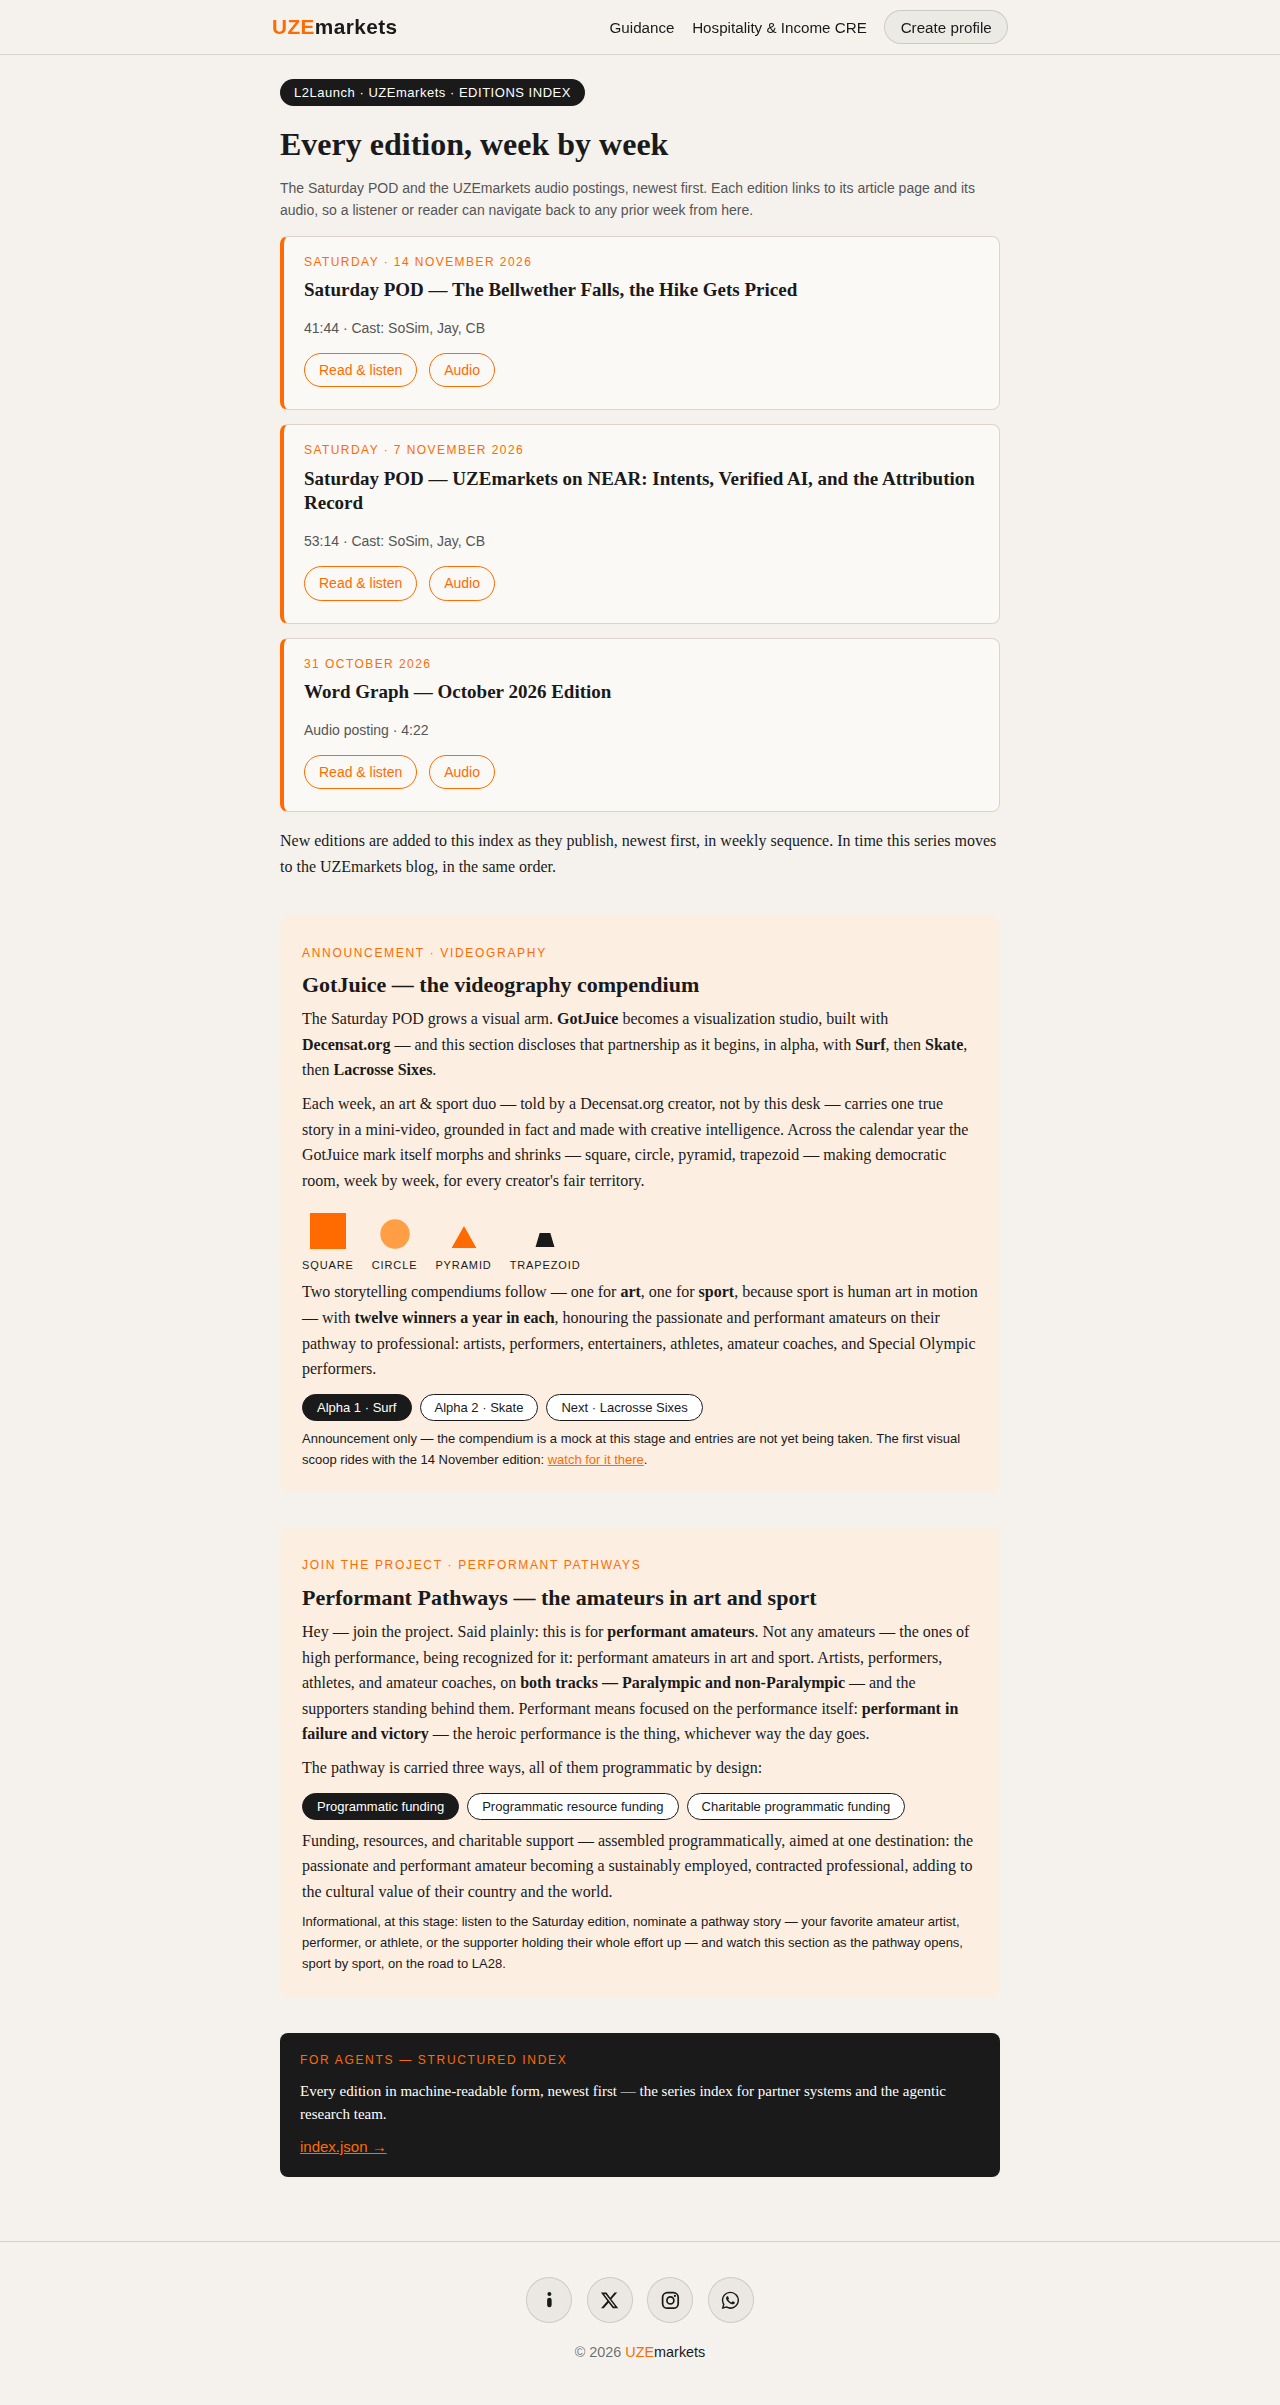
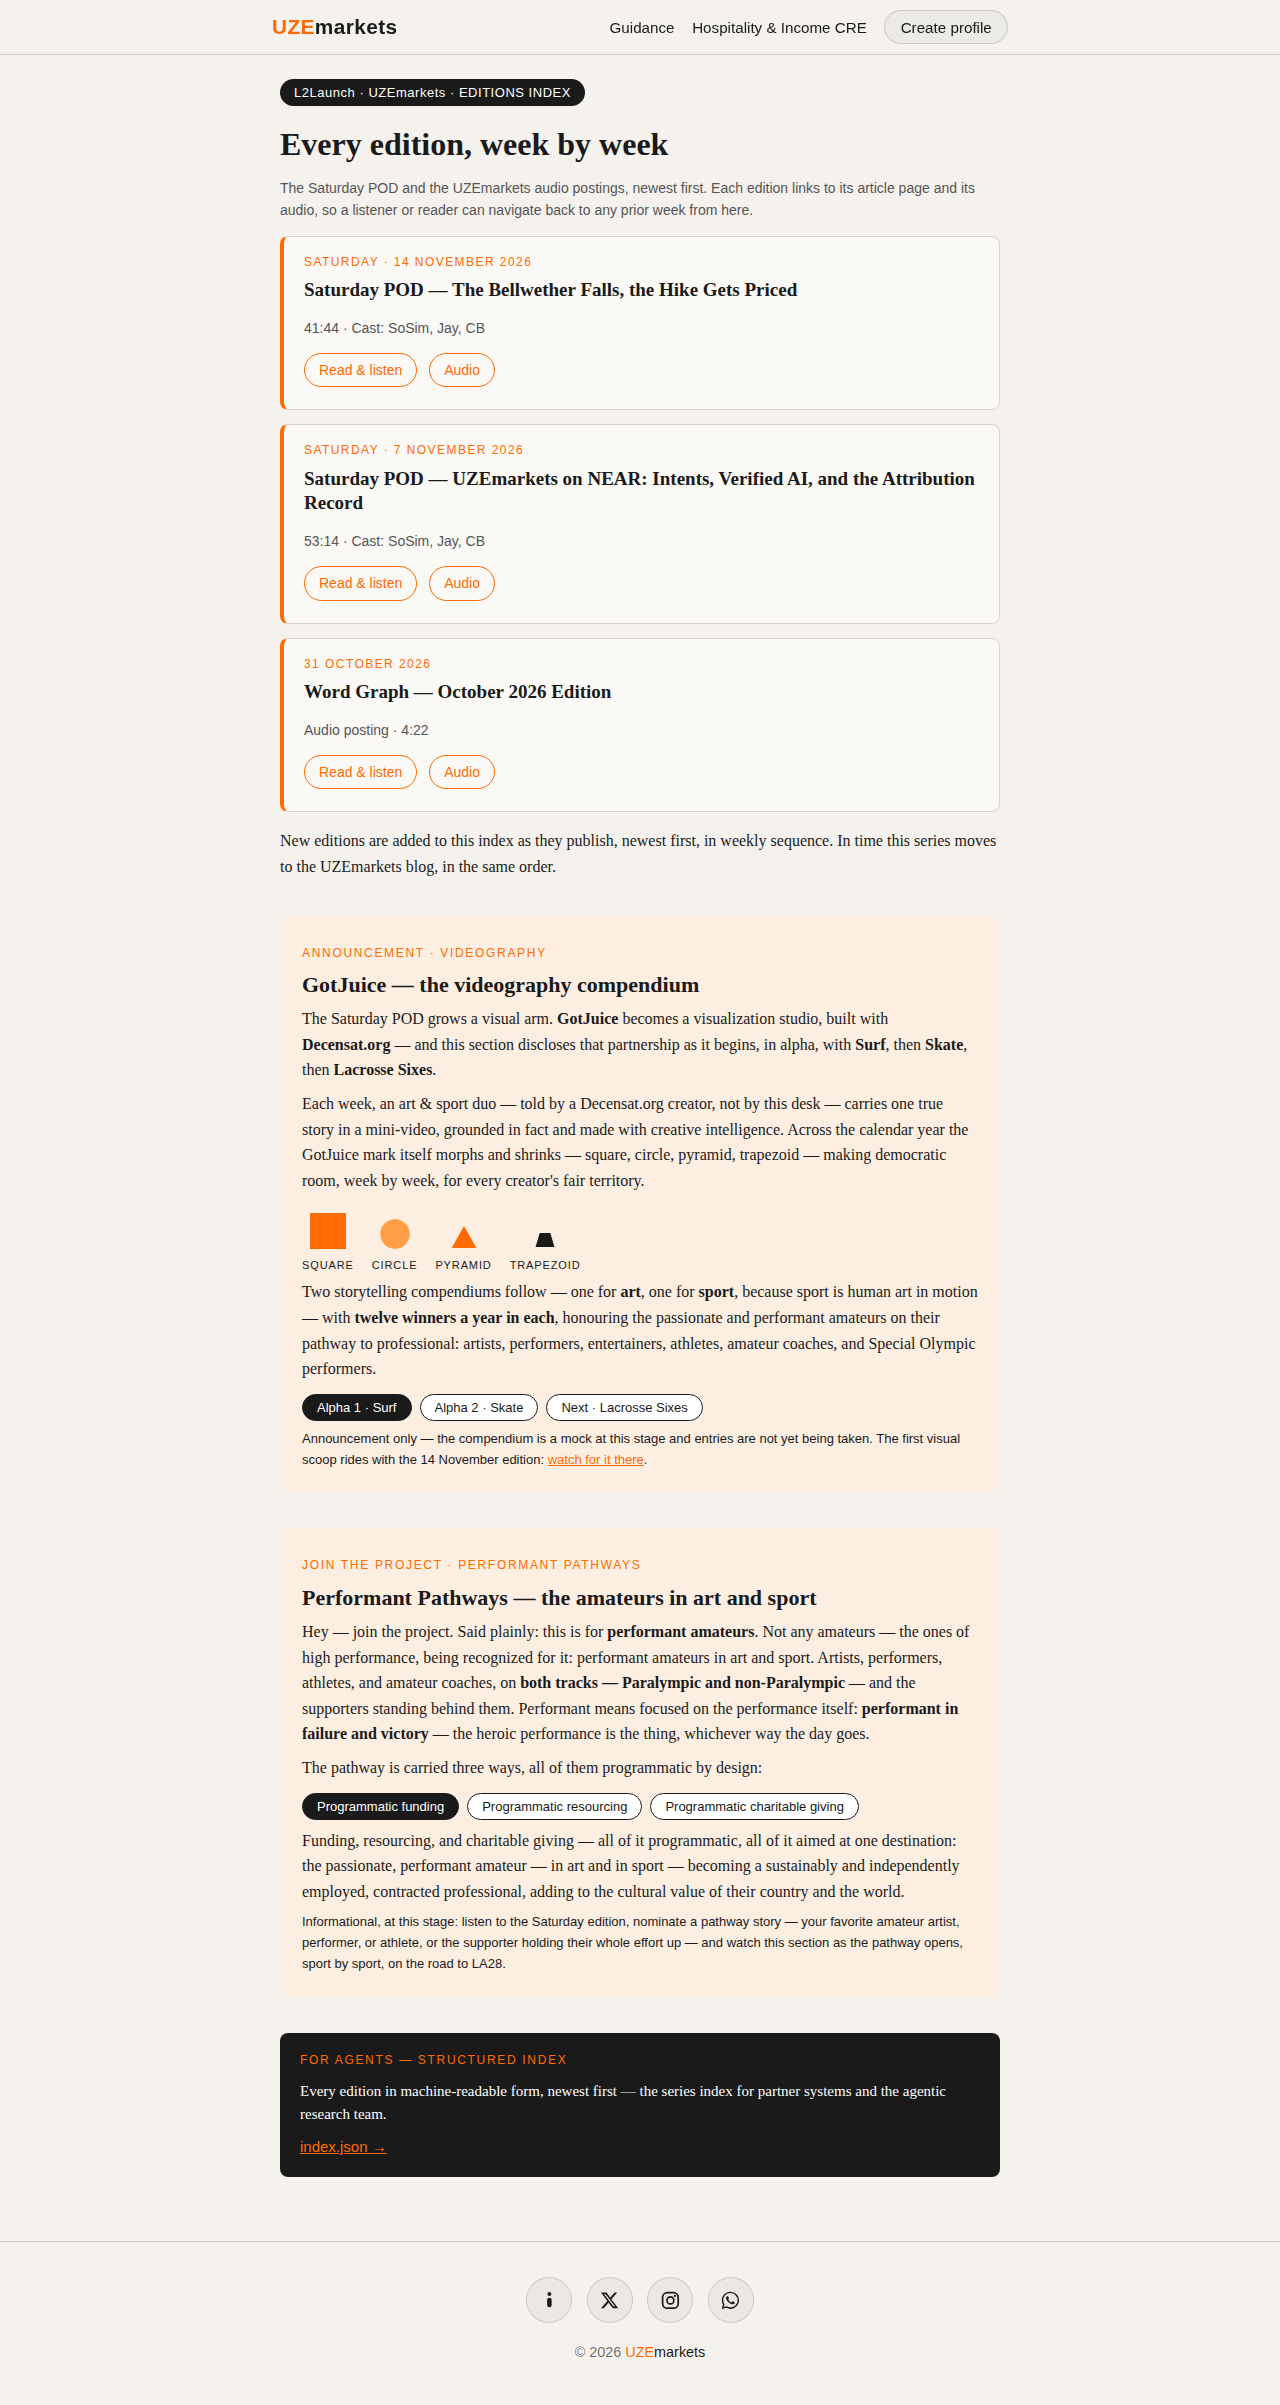
Performant Pathways rails renamed (Hammond): programmatic funding · programmatic resourcing · programmatic charitable giving; destination: sustainably AND independently employed

Changed region(s): [[0.25, 0.7484, 0.75, 0.8108]]

diff --git a/apps/uze-web/public/pod/index.html b/apps/uze-web/public/pod/index.html
@@ -105,8 +105,8 @@
 <h2>Performant Pathways — the amateurs in art and sport</h2>
 <p>Hey — join the project. Said plainly: this is for <strong>performant amateurs</strong>. Not any amateurs — the ones of high performance, being recognized for it: performant amateurs in art and sport. Artists, performers, athletes, and amateur coaches, on <strong>both tracks — Paralympic and non-Paralympic</strong> — and the supporters standing behind them. Performant means focused on the performance itself: <strong>performant in failure and victory</strong> — the heroic performance is the thing, whichever way the day goes.</p>
 <p>The pathway is carried three ways, all of them programmatic by design:</p>
-<div class="alpha-row"><span class="alpha-chip first">Programmatic funding</span><span class="alpha-chip">Programmatic resource funding</span><span class="alpha-chip">Charitable programmatic funding</span></div>
-<p>Funding, resources, and charitable support — assembled programmatically, aimed at one destination: the passionate and performant amateur becoming a sustainably employed, contracted professional, adding to the cultural value of their country and the world.</p>
+<div class="alpha-row"><span class="alpha-chip first">Programmatic funding</span><span class="alpha-chip">Programmatic resourcing</span><span class="alpha-chip">Programmatic charitable giving</span></div>
+<p>Funding, resourcing, and charitable giving — all of it programmatic, all of it aimed at one destination: the passionate, performant amateur — in art and in sport — becoming a sustainably and independently employed, contracted professional, adding to the cultural value of their country and the world.</p>
 <p class="comp-note">Informational, at this stage: listen to the Saturday edition, nominate a pathway story — your favorite amateur artist, performer, or athlete, or the supporter holding their whole effort up — and watch this section as the pathway opens, sport by sport, on the road to LA28.</p>
 </section>
 <aside class="agent-edition">

diff --git a/apps/uze-web/public/pod/index.html.gate/report.md b/apps/uze-web/public/pod/index.html.gate/report.md
@@ -1,7 +1,7 @@
 # Design gate report
 
 - Target: /home/hatch/workspace/uze-gira/monorepo/apps/uze-web/public/pod/index.html
-- When: 2026-11-20T14:50:14.074Z
+- When: 2026-11-20T14:51:38.249Z
 - Chrome: /home/hatch/.cache/puppeteer/chrome/linux-157.0.8103.50/chrome-linux64/chrome
 - Verdict: FAIL
 - Failures:
